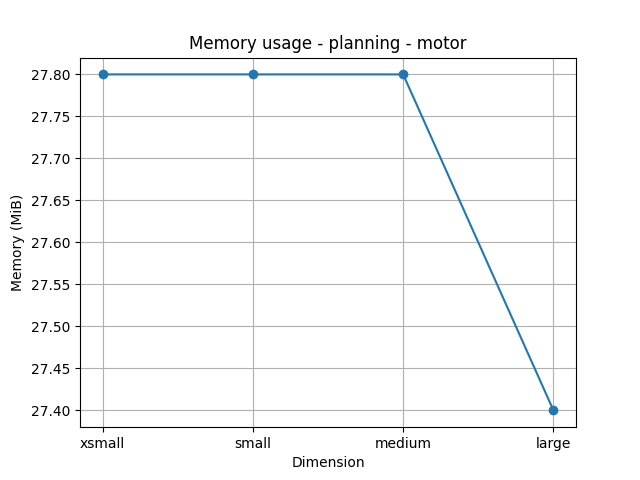
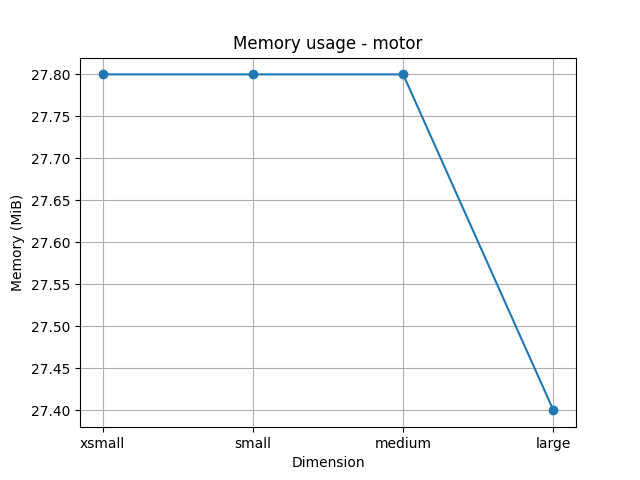
update plot

Changed region(s): [[0.2812, 0.0625, 0.7188, 0.125]]

diff --git a/eval_utils/plot_results.py b/eval_utils/plot_results.py
@@ -17,8 +17,8 @@ if __name__ == "__main__":
             mems.append(df[(df["case_study"] == case_study) & (df["dimension"] == dimension)]["mem_tot"].values[0])
             times_comp.append(df[(df["case_study"] == case_study) & (df["dimension"] == dimension)]["comp_time"].values[0])
         
-        plt.figure(f"Memory usage - planning - {case_study}")
-        plt.title(f'Memory usage - planning - {case_study}')
+        plt.figure(f"Memory usage - {case_study}")
+        plt.title(f'Memory usage - {case_study}')
         plt.plot(dimensions_num, mems, '-o', label='Planning')
         plt.xticks(dimensions_num, dimensions)
         plt.xlabel('Dimension')
@@ -29,7 +29,7 @@ if __name__ == "__main__":
 
 
         plt.figure(f"Solution computation time - {case_study}")
-        plt.title('Planning - Time consumption')
+        plt.title(f'Time consumption - {case_study}')
         plt.plot(dimensions_num, times_comp, '-o', label='Planning')
         plt.xticks(dimensions_num, dimensions)
         plt.xlabel('Number of services')

diff --git a/README.md b/README.md
@@ -77,7 +77,7 @@ Evaluation results of the experiments can be found in [eval_utils](eval_utils/).
 ![time motor](eval_utils/time_consumption_motor.png)
 
 
-## Comulative Experimental Results
+## Comulative Experimental Results - Chip case study
 
 Comulative results (including also policy-based approachs) are available in [cum_exp](cum_exp).
 
